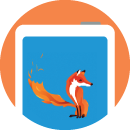
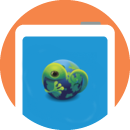
Bug 1288910 - update Firefox_Installer_Title.png & Flash_Icon_130x130.png in b2g-installer r=gerard-majax

Changed region(s): [[0.2154, 0.4308, 0.7077, 0.9231], [0.3077, 0.4, 0.3385, 0.4615]]

diff --git a/about.css b/about.css
@@ -2,7 +2,7 @@
 
 html {
   font-size: 16px;
-  font-family: Helvetica;
+  font-family: "Fira Sans";
 }
 
 body {
@@ -43,8 +43,12 @@ ul {
 }
 
 #title {
-  text-indent: -9999px;
-  background: url(Firefox_Installer_Title.png) no-repeat top center;
+    font-size: 45px;
+    font-weight: 300;
+}
+
+#title .os-name {
+    font-weight: 500;
 }
 
 #wrapper,
